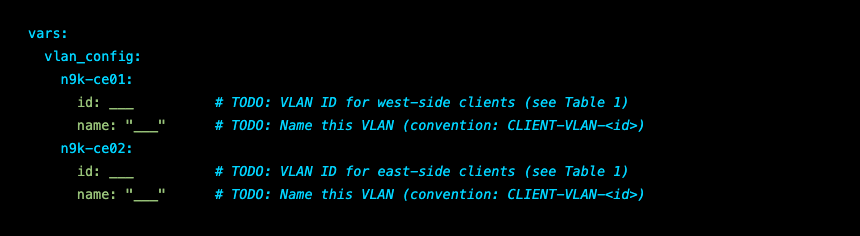
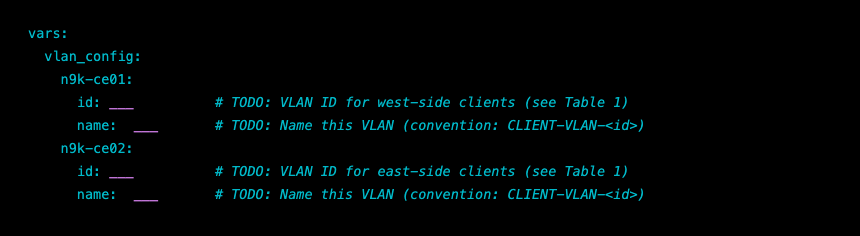
Fix task1-vars-block: teal-cyan keys, purple placeholders, white unquoted values, cyan italic comments

diff --git a/images/task1-vars-block.html b/images/task1-vars-block.html
@@ -23,13 +23,16 @@
     line-height: 1.7;
   }
 
-  /* color tokens — matched to task1-step2-playbook-clean.png reference */
-  .cy  { color: #00d4ff; }                        /* cyan: section keys, host names */
-  .gr  { color: #98c379; }                        /* green: leaf keys + values */
-  .ph  { color: #98c379; }                        /* placeholders same green as values */
-  .cm  { color: #00d4ff; font-style: italic; }    /* comments: cyan italic */
-  .d   { color: #e5c07b; }                        /* dash: yellow */
-  .wh  { color: #ffffff; }                        /* task name string: white */
+  /* All keys, section names, module names */
+  .cy  { color: #00b8c8; }
+  /* Unquoted values (nxos, false, active, merged, layer2) */
+  .wh  { color: #ffffff; }
+  /* Purple placeholders ___ */
+  .ph  { color: #c678dd; }
+  /* Yellow dash */
+  .d   { color: #e5c07b; }
+  /* Comments — cyan italic */
+  .cm  { color: #00b8c8; font-style: italic; }
 </style>
 </head>
 <body>
@@ -37,11 +40,11 @@
 <pre><span class="cy">vars:</span>
   <span class="cy">vlan_config:</span>
     <span class="cy">n9k-ce01:</span>
-      <span class="gr">id:</span> <span class="ph">___</span>          <span class="cm"># TODO: VLAN ID for west-side clients (see Table 1)</span>
-      <span class="gr">name:</span> <span class="ph">"___"</span>      <span class="cm"># TODO: Name this VLAN (convention: CLIENT-VLAN-&lt;id&gt;)</span>
+      <span class="cy">id:</span> <span class="ph">___</span>          <span class="cm"># TODO: VLAN ID for west-side clients (see Table 1)</span>
+      <span class="cy">name:</span> "<span class="ph">___</span>"      <span class="cm"># TODO: Name this VLAN (convention: CLIENT-VLAN-&lt;id&gt;)</span>
     <span class="cy">n9k-ce02:</span>
-      <span class="gr">id:</span> <span class="ph">___</span>          <span class="cm"># TODO: VLAN ID for east-side clients (see Table 1)</span>
-      <span class="gr">name:</span> <span class="ph">"___"</span>      <span class="cm"># TODO: Name this VLAN (convention: CLIENT-VLAN-&lt;id&gt;)</span></pre>
+      <span class="cy">id:</span> <span class="ph">___</span>          <span class="cm"># TODO: VLAN ID for east-side clients (see Table 1)</span>
+      <span class="cy">name:</span> "<span class="ph">___</span>"      <span class="cm"># TODO: Name this VLAN (convention: CLIENT-VLAN-&lt;id&gt;)</span></pre>
 </div>
 </body>
 </html>
